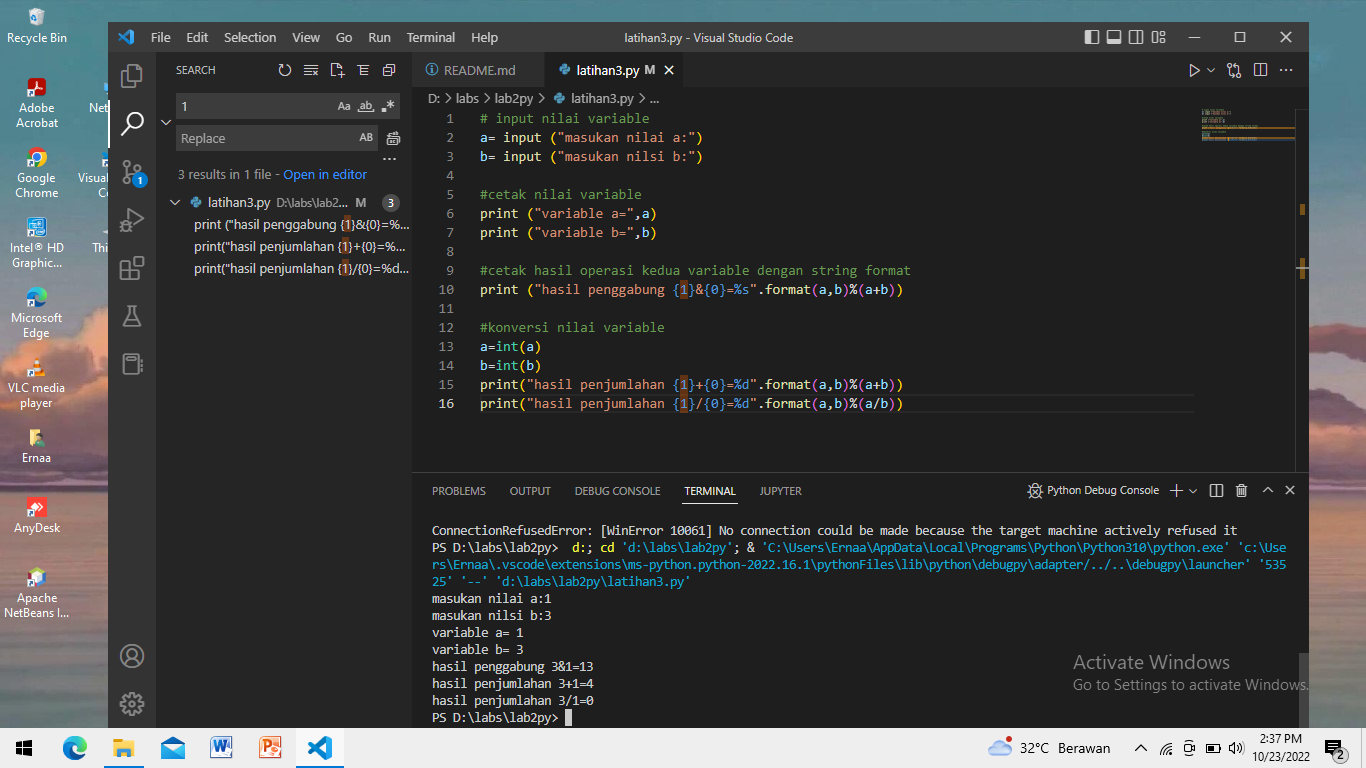
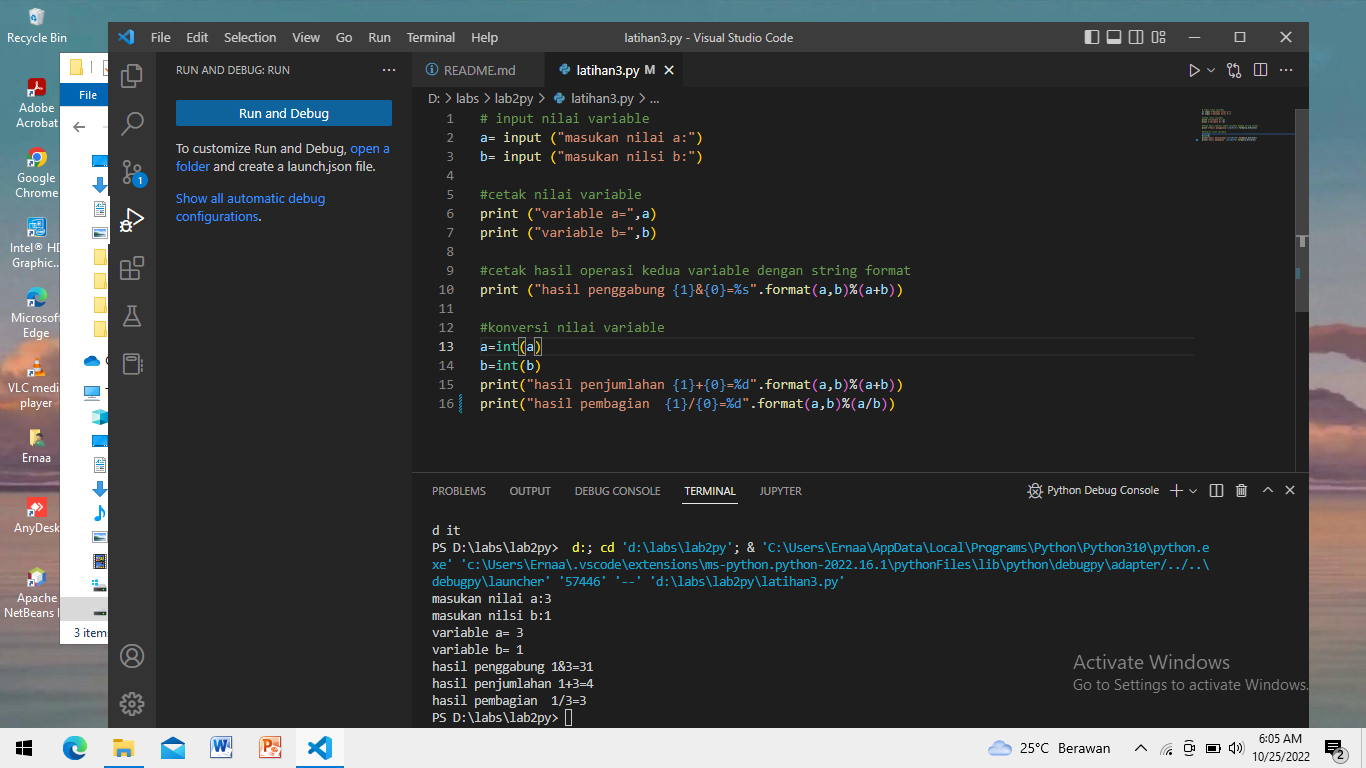
menambahkan file

diff --git a/latihan3.py b/latihan3.py
@@ -13,4 +13,4 @@ print ("hasil penggabung {1}&{0}=%s".format(a,b)%(a+b))
 a=int(a)
 b=int(b)    
 print("hasil penjumlahan {1}+{0}=%d".format(a,b)%(a+b))
-print("hasil penjumlahan {1}/{0}=%d".format(a,b)%(a/b))
+print("hasil pembagian  {1}/{0}=%d".format(a,b)%(a/b))
